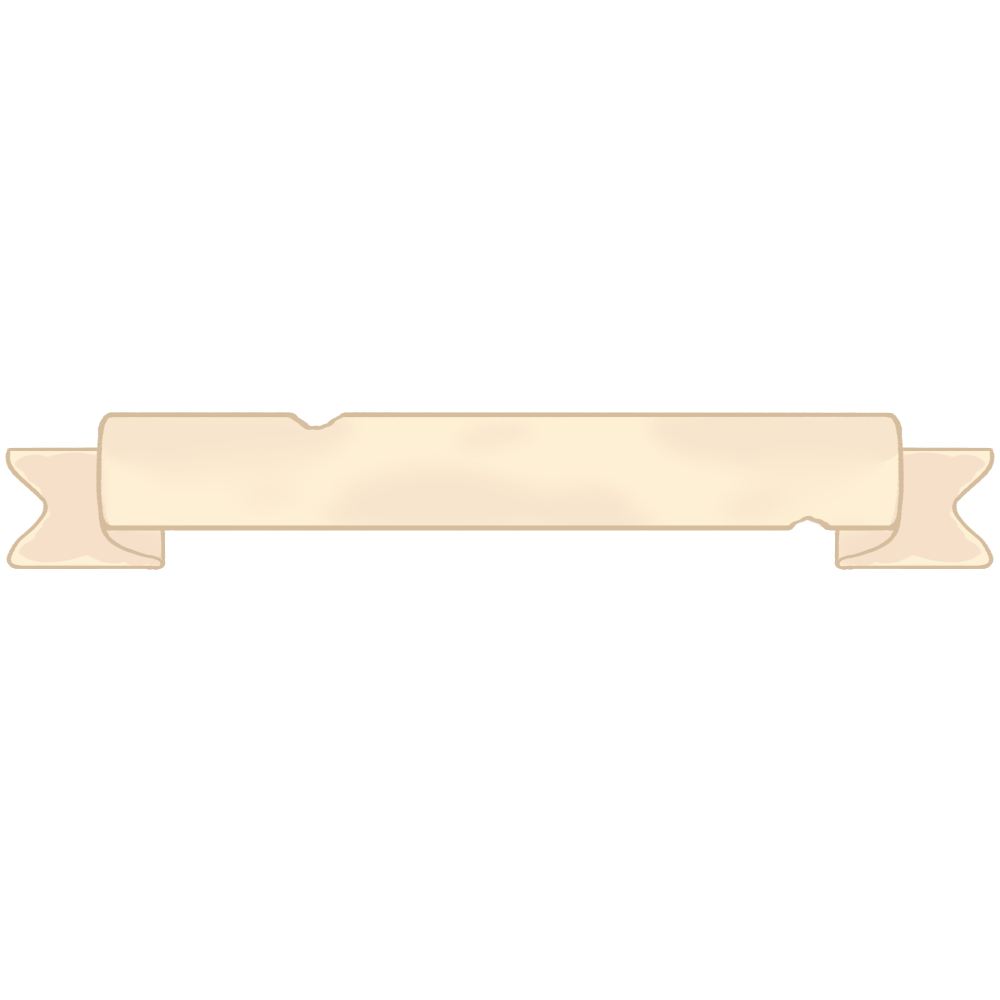
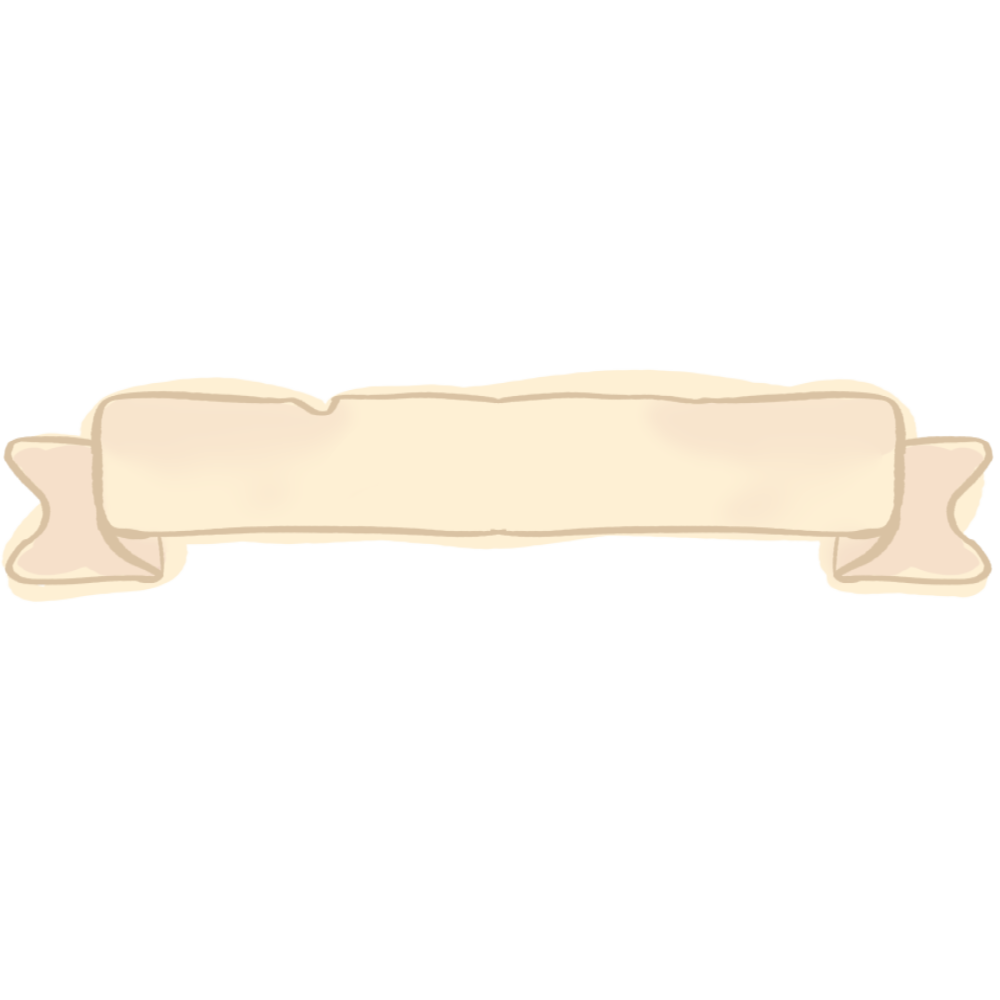
ui

Changed region(s): [[0.0, 0.372, 1.0, 0.62]]

diff --git a/index.html b/index.html
@@ -15,6 +15,10 @@
         <section class="stage">
             <img src="assets/ui/base.png" id="base-drawing" alt="Background Base">
         </section>
+
+        <section class="focus">
+            <img src="assets/ui/Focus.png" id="focus-button" alt="Focus Butoon">
+        </section>
     </main>
 </body>
 </html>

diff --git a/style.css b/style.css
@@ -7,7 +7,9 @@ body {
     align-items: center;
     justify-content: flex-start; 
     height: 100vh;      
-    overflow: hidden;   
+    overflow: hidden;  
+    touch-action: none;     
+    user-select: none; 
 }
 
 .game-container {